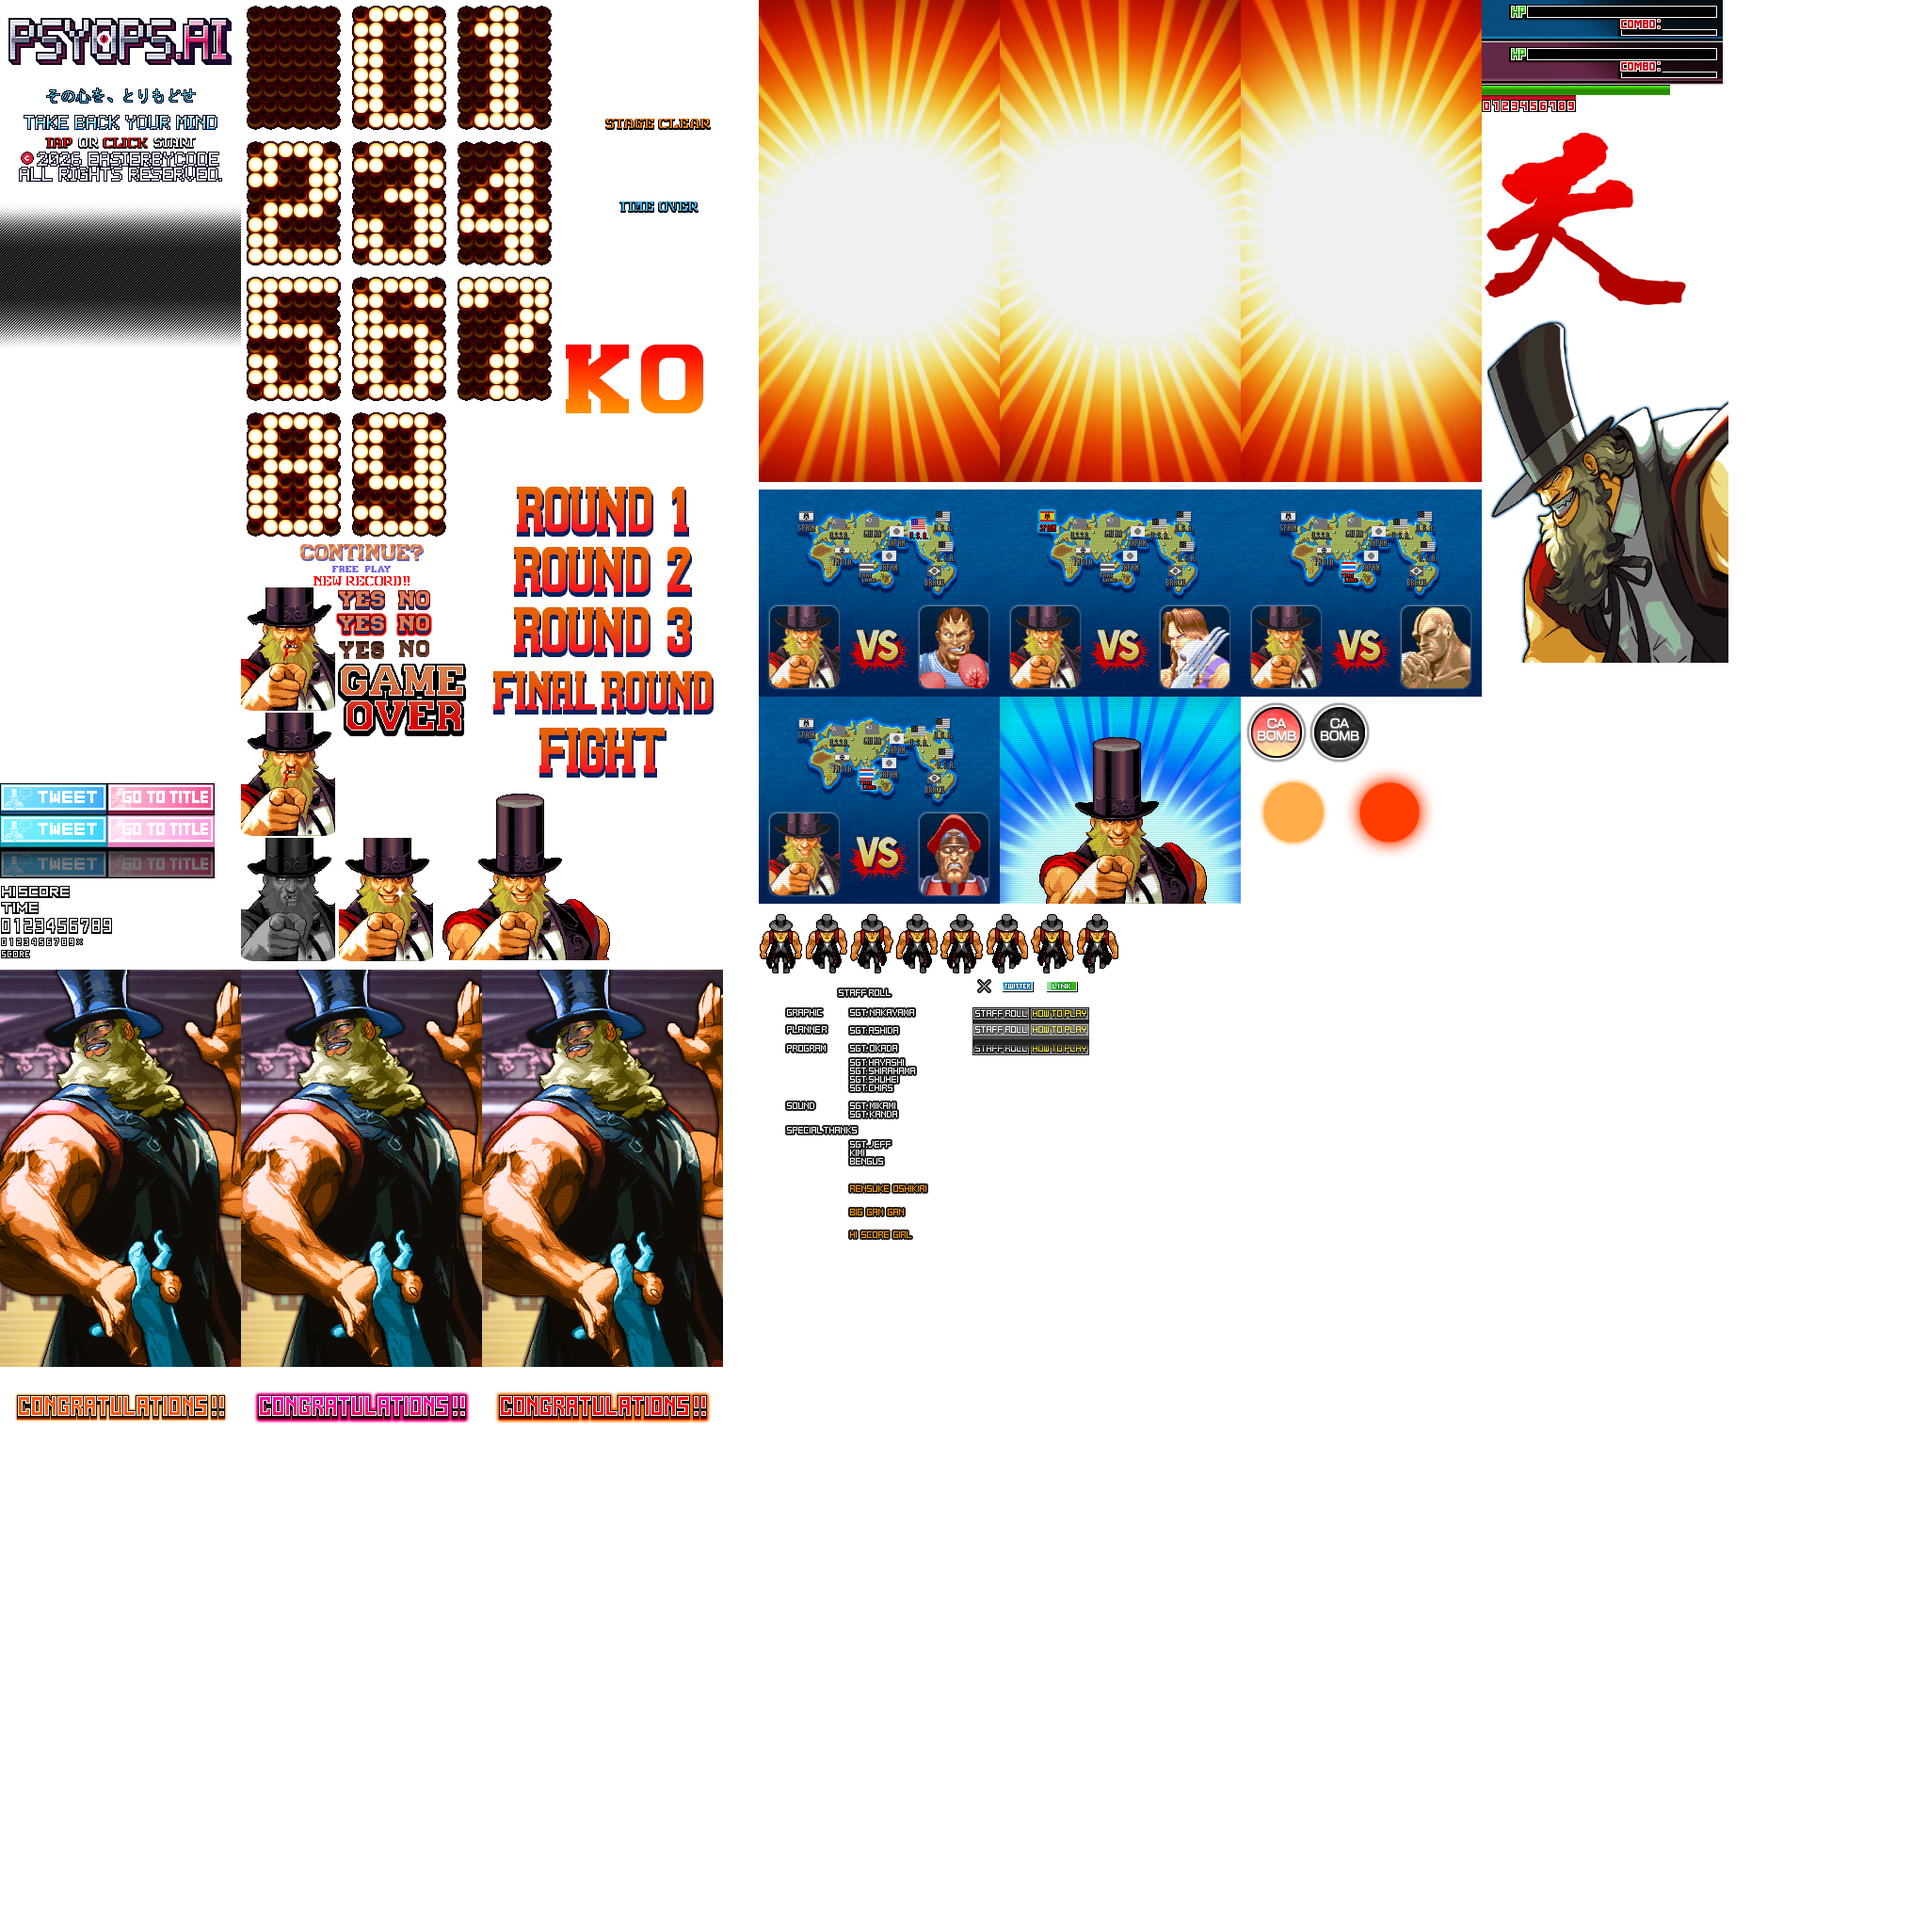
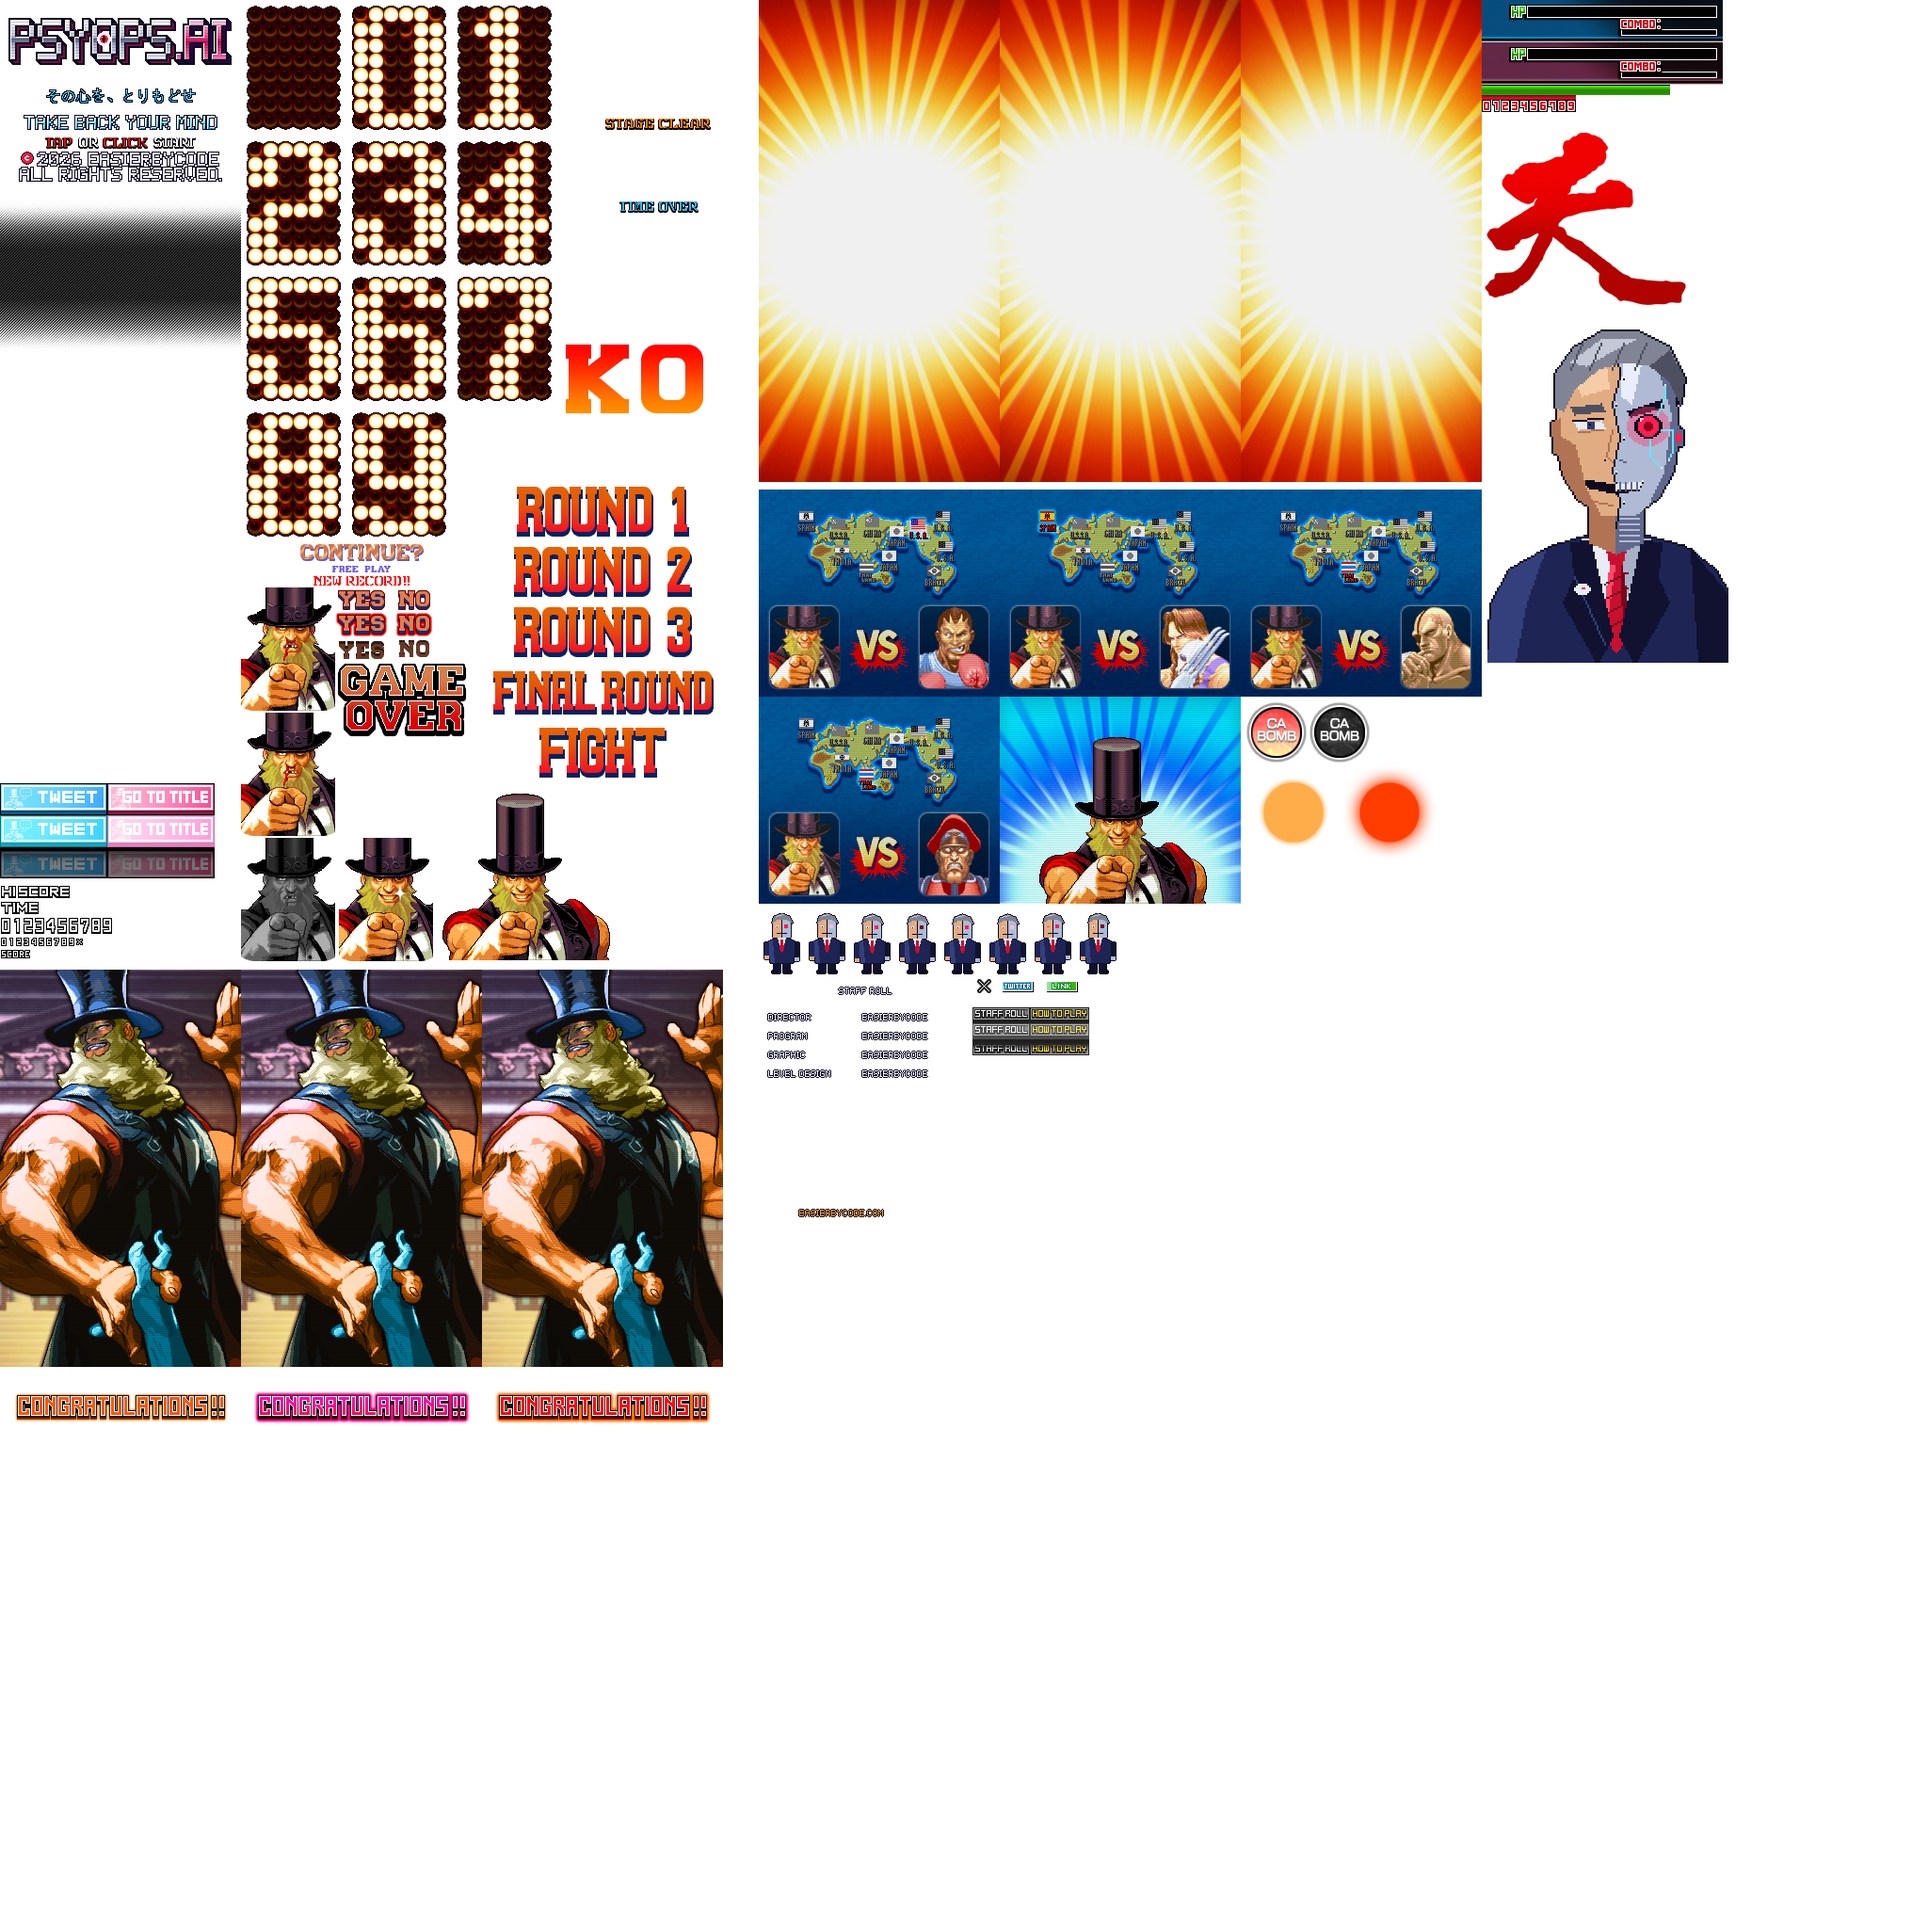
Redraw the title portrait and staff roll
New title portrait, staff roll character (8 frames) and credits sheet.
The staff roll's links now point to easierbycode.com instead of the
original game's staff and magazine pages.

Changed region(s): [[0.75, 0.1562, 0.9062, 0.3438], [0.375, 0.4688, 0.5938, 0.6562]]

diff --git a/src/phaser/StaffRollPanel.js b/src/phaser/StaffRollPanel.js
@@ -97,11 +97,8 @@ export class StaffRollPanel extends Phaser.GameObjects.Container {
             // re-add above the name sheet so the close button stays on top
             this.bringToTop(this.closeBtn);
 
-            this.addLinkButton("staffrollTwitterBtn.gif", 165, 118, "https://twitter.com/takaNakayama");
-            this.addLinkButton("staffrollTwitterBtn.gif", 131, 276, "https://twitter.com/bengasu");
-            this.addLinkButton("staffrollTwitterBtn.gif", 178, 304, "https://twitter.com/rereibara");
-            this.addLinkButton("staffrollLinkBtn.gif", 153, 329, "https://magazine.jp.square-enix.com/biggangan/introduction/highscoregirl/");
-            this.addLinkButton("staffrollLinkBtn.gif", 161, 355, "http://hi-score-girl.com/");
+            // Sits just right of the EASIERBYCODE.COM line on the name sheet.
+            this.addLinkButton("staffrollLinkBtn.gif", 153, 331, "https://easierbycode.com");
 
             var thanksLabelStyle = { fontSize: "8px", fontFamily: "Orbitron, Arial", fill: "#ffff00", align: "center", stroke: "#000000", strokeThickness: 2, resolution: 4 };
             var thanksNameStyle = { fontSize: "7px", fontFamily: "Orbitron, Arial", fill: "#ffffff", align: "center", stroke: "#000000", strokeThickness: 2, resolution: 4 };
